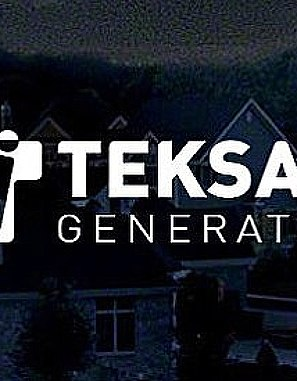
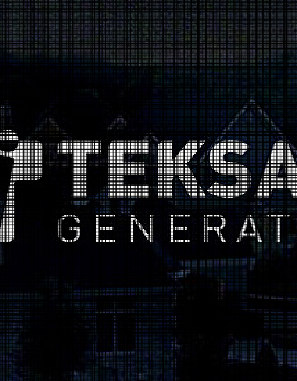
fix_imagequality_sbk

diff --git a/backend/controllers/works/UpdateController.php b/backend/controllers/works/UpdateController.php
@@ -185,7 +185,7 @@ class UpdateController extends  \backend\controllers\AdminController
 						$myImagick->makeResizeImageWithOptimalCrop(200, 200, $fileNameMedium, $tmp_dir.'/'.$name, $format, imagick::FILTER_HAMMING, 0.8, 0, 1, imagick::COMPRESSION_LZW, 87);
 						$newRow = $myOthers->addImgOne('works', $uploader[1], $fileName, $imgTitle, 200, 200, $idRecord);*/
 						if ($uploader[1] == "imageprtf") {
-							$myImagick->makeResizeImageWithOptimalCrop($imgGeneralPRTFWidth, $imgGeneralPRTFHeight,$pathToFolder.$fileNameGeneralPRTF, $tmp_dir.'/'.$name, $format, \imagick::FILTER_HAMMING, 0.8, 0, 1, \imagick::COMPRESSION_LZW, 87);
+							$myImagick->makeResizeImageWithOptimalCrop($imgGeneralPRTFWidth, $imgGeneralPRTFHeight,$pathToFolder.$fileNameGeneralPRTF, $tmp_dir.'/'.$name, $format, \imagick::FILTER_HAMMING, 0.1, 0, 1, \imagick::COMPRESSION_LZW, 100);
 							$newRow = $myOthers->addImgOneMultiLangs('works', $uploader[1], $fileName, $imgTitle, $imgGeneralPRTFWidth, $imgGeneralPRTFHeight,$idRecord, 'idWorks', $pageLang);
 						//загрузка изображений для background
 
@@ -216,13 +216,13 @@ class UpdateController extends  \backend\controllers\AdminController
 
 
 						} else {
-							$myImagick->makeResizeImageWithOptimalCrop($imgGeneralWidth, $imgGeneralHeight, $pathToFolder.$fileNameGeneral,$tmp_dir.'/'.$name, $format, \imagick::FILTER_HAMMING, 0.8, 0, 1, \imagick::COMPRESSION_LZW, 87);
+							$myImagick->makeResizeImageWithOptimalCrop($imgGeneralWidth, $imgGeneralHeight, $pathToFolder.$fileNameGeneral,$tmp_dir.'/'.$name, $format, \imagick::FILTER_HAMMING, 0, 0, 0, \imagick::COMPRESSION_NO, 87);
 							// Создаём файл нужного размера с оптимальным обрезанием (превью)
-							$myImagick->makeResizeImageWithOptimalCrop($imgPreviewWidth, $imgPreviewHeight, $pathToFolder.$fileNamePreview, $tmp_dir.'/'.$name, $format, \imagick::FILTER_HAMMING, 0.8, 0, 1, \imagick::COMPRESSION_LZW, 87);
+							$myImagick->makeResizeImageWithOptimalCrop($imgPreviewWidth, $imgPreviewHeight, $pathToFolder.$fileNamePreview, $tmp_dir.'/'.$name, $format, \imagick::FILTER_HAMMING, 0, 0, 0, \imagick::COMPRESSION_NO, 87);
 							$newRow = $myOthers->addImgOneMultiLangsI('works', $uploader[1], $fileName, $imgTitle, $imgGeneralWidth, $imgGeneralHeight, $imgPreviewWidth, $imgPreviewHeight, $idRecord, 'idWorks', $pageLang);
-							$myImagick->makeResizeImageWithOptimalCrop($imgBigSBKWidth, $imgBigSBKHeight, $pathToFolder.$fileNameBigSBK,$tmp_dir.'/'.$name, $format, \imagick::FILTER_HAMMING, 0.8, 0, 1, \imagick::COMPRESSION_LZW, 87);
+							$myImagick->makeResizeImageWithOptimalCrop($imgBigSBKWidth, $imgBigSBKHeight, $pathToFolder.$fileNameBigSBK,$tmp_dir.'/'.$name, $format, \imagick::FILTER_HAMMING, 0, 0, 0, \imagick::COMPRESSION_NO, 87);
 							// Создаём файл нужного размера с оптимальным обрезанием (превью)
-							$myImagick->makeResizeImageWithOptimalCrop($imgMediumSBKWidth, $imgMediumSBKHeight, $pathToFolder.$fileNameMediumSBK, $tmp_dir.'/'.$name, $format, \imagick::FILTER_HAMMING, 0.8, 0, 1, \imagick::COMPRESSION_LZW, 87);
+							$myImagick->makeResizeImageWithOptimalCrop($imgMediumSBKWidth, $imgMediumSBKHeight, $pathToFolder.$fileNameMediumSBK, $tmp_dir.'/'.$name, $format, \imagick::FILTER_HAMMING, 0, 0, 0, \imagick::COMPRESSION_NO, 87);
 							$newRow = $myOthers->addImgOneMultiLangsI('works', $uploader[1], $fileName, $imgTitle, $imgGeneralWidth, $imgGeneralHeight, $imgPreviewWidth, $imgPreviewHeight, $idRecord, 'idWorks', $pageLang);
 						}
 

diff --git a/frontend/views/root/frontend.php b/frontend/views/root/frontend.php
@@ -141,55 +141,3 @@ $textPagesUrlProvider = new TextPagesUrlProvider($lang);
 </div>
 <!--/main wrap -->
 
-<?php
-//
-// Шаблон страницы для Портфолио
-//
-// Принимаемые переменные:
-// $alias - алиас страницы
-// $pH1 - заголовок h1
-// $works - список работ
-// $filters - список фильтров
-// $filterUri - uri текущего фильтра
-//
-/**/ ?><!--
-<?php
-/*use frontend\models\Common;
-use vendor\UrlProvider\SimpleModuleUrlProvider;
-use vendor\UrlProvider\TextPagesUrlProvider;
-
-$options['joinUris'] = 1;
-$simpleModuleUrlProvider = new SimpleModuleUrlProvider($lang, $options);
-$textPagesUrlProvider = new TextPagesUrlProvider($lang);
-*/ ?>
-template for page portfolio<br>
-<?php /*echo $pH1; */ ?>
-<ul>
-	<?php /*foreach ($filters as $filter) { */ ?>
-		<?php
-/*			$params['item'] = $filter;
-			$filterUrl = $textPagesUrlProvider->geteFilterUrl($params);
-		*/ ?>
-		<li>
-			<?php
-/*				$filterActive = ($filter['url'] == $filterUri);
-				if ($filterActive) {
-			*/ ?>
-				<?php /*echo $filter['title']; */ ?>
-			<?php /*} else { */ ?>
-				<a href="<?php /*echo $filterUrl; */ ?>"><?php /*echo $filter['title']; */ ?></a>
-			<?php /*} */ ?>
-		</li>
-	<?php /*} */ ?>
-</ul>
-<ul>
-	<?php /*foreach ($works as $work) { */ ?>
-
-		<?php
-/*			$params['item'] = $work;
-			$workUrl = $simpleModuleUrlProvider->geteWorksItemUrl($params);
-		*/ ?>
-		    <li><a href="<?php /*echo $workUrl; */ ?>"><?php /*echo $work['title']; */ ?><img src=" <?php /*echo $work['imgPath']; */ ?>" alt=" " width="<?php /*echo $work['imgW']*/ ?>" height="<?php /*echo $work['imgH'] */ ?>" </a> <?php /*echo $work['description']; */ ?>
-			 </li>
-	<?php /*} */ ?>
-</ul>-->

diff --git a/backend/views/pages/SitesbykeysPageEditView.php b/backend/views/pages/SitesbykeysPageEditView.php
@@ -102,7 +102,7 @@ $content .= Html::beginForm($admPanelUri.'formupdate/'.$id1Uri.'/'.$page[0]['id'
                 <fieldset class="catalog__section">
                 '.$this->createHeader('Главный экран').'
                 <!-- pContent -->'.$this->createTextArea(['id'=> 'pContent', 'text' => 'Title ', 'width' => '800x500', 'name' => 'pContent', 'value' => $page[0]['pContent'], 'attr' => '']).'<!-- /pContent -->
-		<!-- sbkdescription -->'.$this->createInput(['id'=> 'sbkdescription', 'text' => 'Title small ', 'placeholder' => '', 'width' => 400, 'name' => 'content[sbkdescription]', 'value' => $pagesItem['sbkdescription'], 'attr' => '']).'<!-- /sbkdescription -->
+		<!-- sbkdescription -->'.$this->createTextArea(['id'=> 'sbkdescription', 'text' => 'Title small ', 'width' => '400x100', 'name' => 'content[sbkdescription]', 'value' => $pagesItem['sbkdescription'], 'attr' => '']).'<!-- /sbkdescription -->
 		<!-- textforbackground -->'.$this->createInput(['id'=> 'textforbackground', 'text' => 'Текст background', 'placeholder' => '', 'width' => 400, 'name' => 'content[textforbackground]', 'value' => $pagesItem['textforbackground'], 'attr' => '']).'<!-- /textforbackground -->
 		<!-- imagebgsbk -->'.$imagebgsbkOne.'<!-- /imagebgsbk -->
                 </fieldset><!-- /sectionPageData --><!-- /createFinish -->

diff --git a/backend/views/pages/WorksEditView.php b/backend/views/pages/WorksEditView.php
@@ -65,7 +65,7 @@ foreach ($filters as $item) {
 
 // Вывод одного изображения "Одиночное изображение" НАЧАЛО
 $imageOne = '<fieldset class="catalog__section">'.
-$this->createHeader('Одиночное изображение');
+$this->createHeader('Одиночное изображение для страницы сайты под ключ');
 if ($worksItem['image'] <> '') {
 	$imageOne .= '<div class="fa__uploader single" id="uploader0-image" data-module="FAUploader" data-href="imgupload" data-action="/'.$idPageGroup.'">
 				<span class="content__menu-item content__menu-item_upload">

diff --git a/frontend/views/root/worksItem.php b/frontend/views/root/worksItem.php
@@ -66,7 +66,7 @@ $textPagesUrlProvider = new TextPagesUrlProvider($lang);
             </section>
             <section>
                 <h2>решение</h2>
-                <p>"<?php echo $worksItem['descrofsolut']?>"</p>
+                <p><?php echo $worksItem['descrofsolut']?></p>
                 <p>Главная страница:</p>
 
                 <!-- image frame -->
